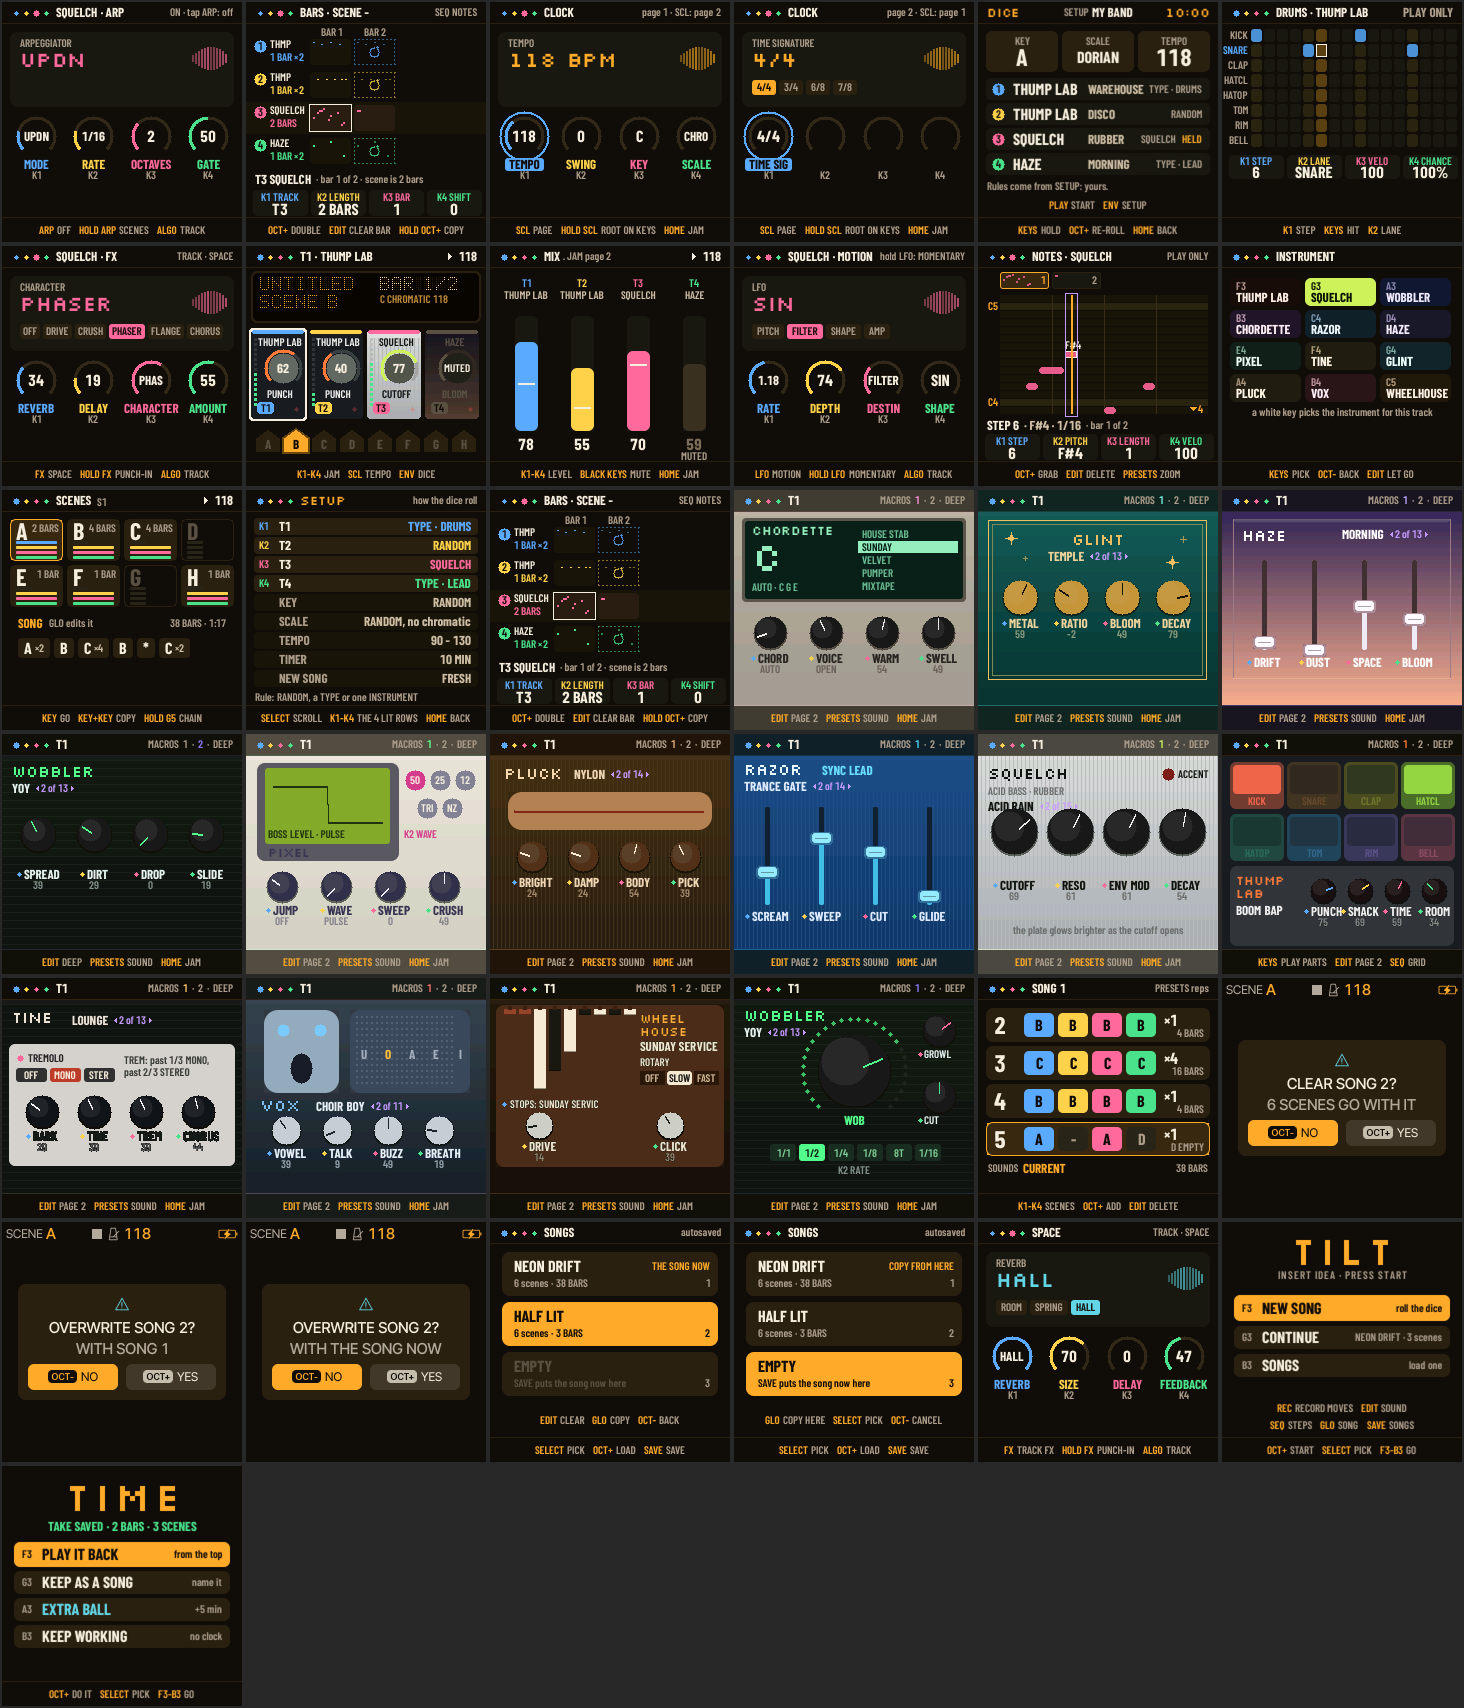
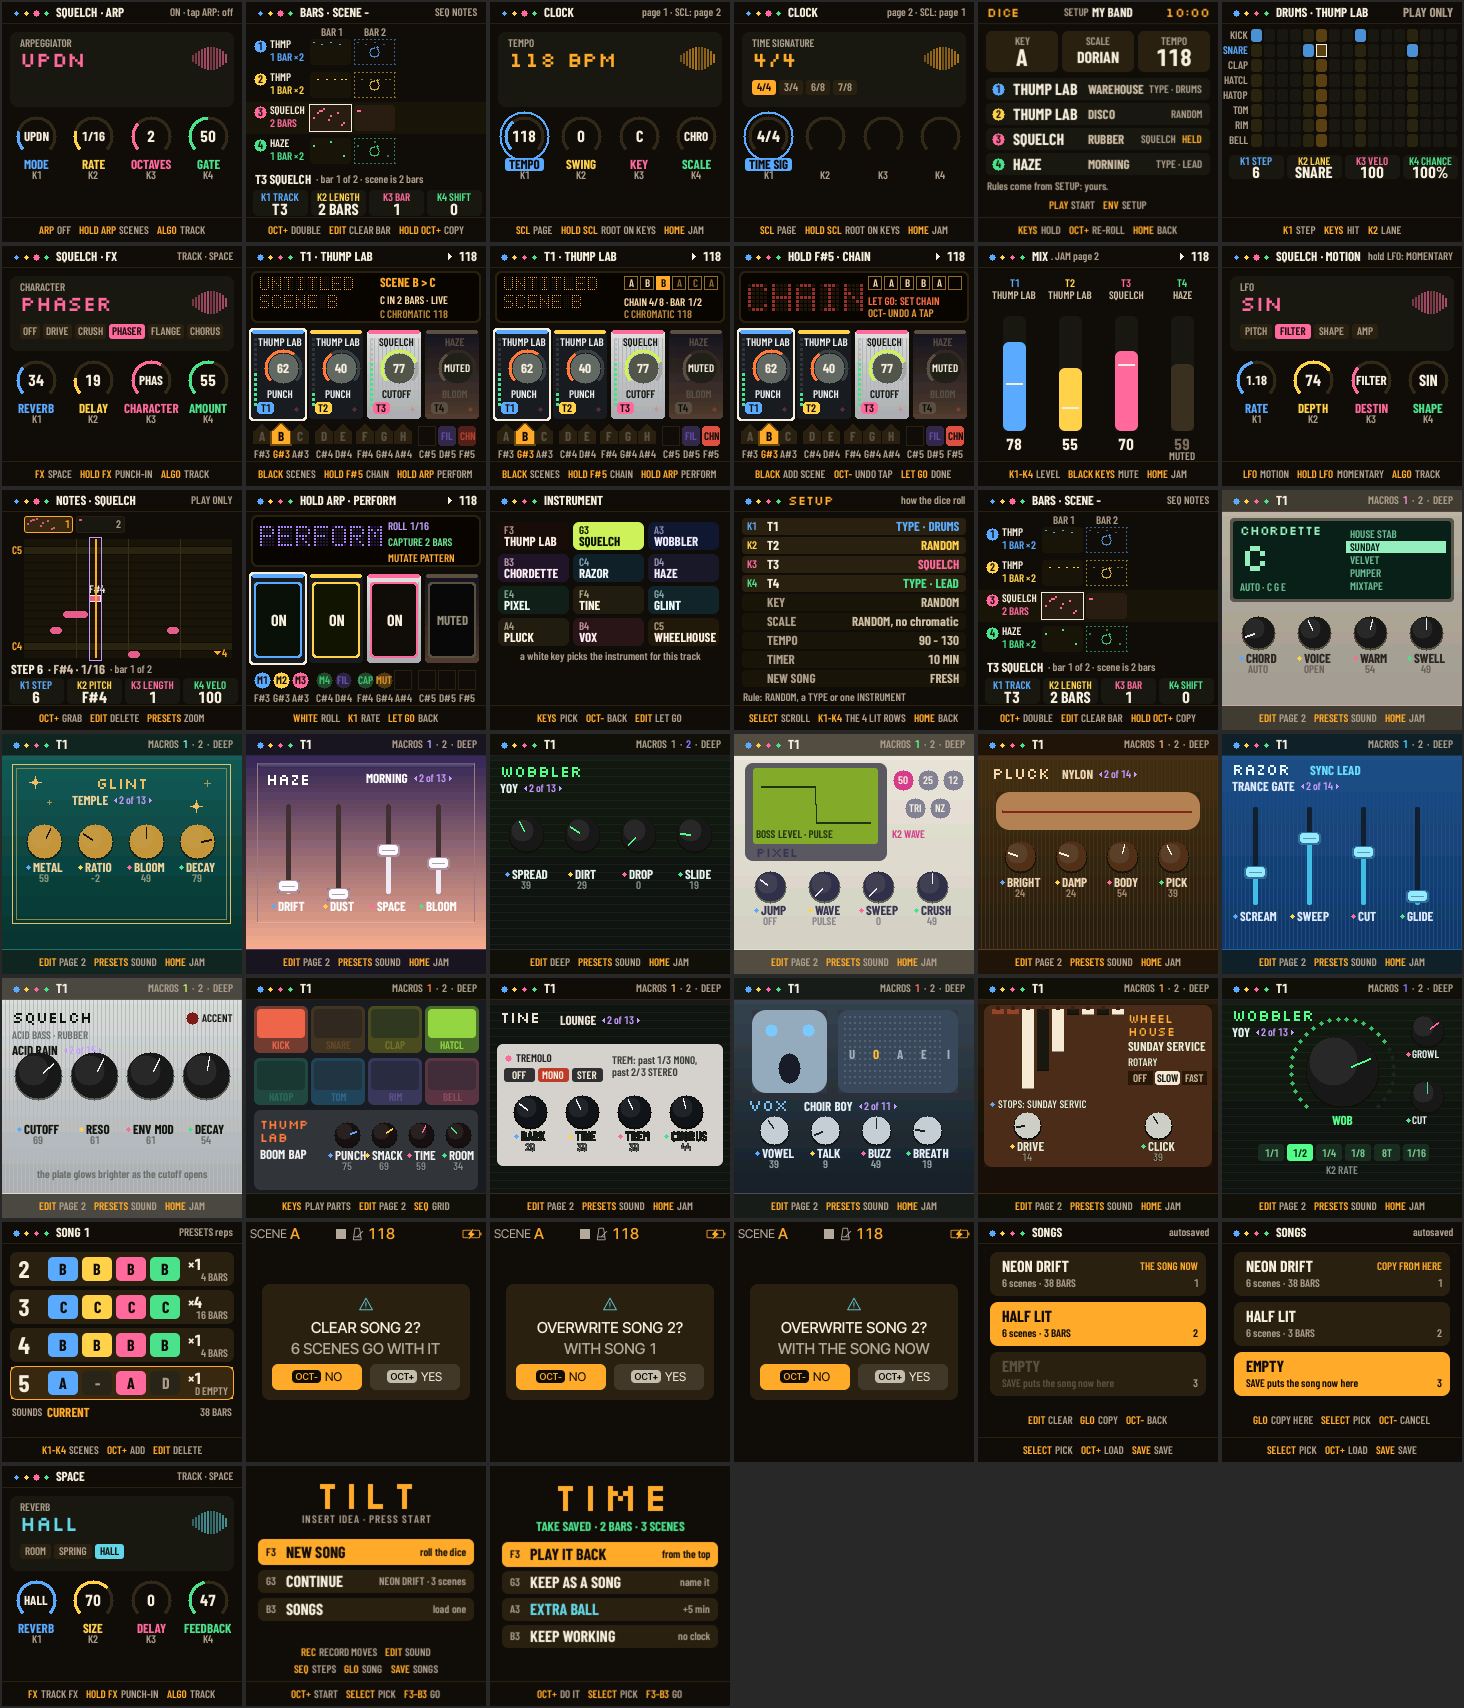
TFM-UI round 5: the report and the re-rendered screens

diff --git a/NIGHT-REPORT-UI.md b/NIGHT-REPORT-UI.md
@@ -197,3 +197,20 @@ Branch `tfm-ui`; one commit and push per item: `f5f2be3` (1), `cd68df8` (2), `69
 **Suite:** `tests=0`, no FAIL lines, `target_budget` 0 (see below). The 2x drawings are the spec; the screens are re-rendered into `tfm-spec/built/` (and the Windows folder), lint 0 findings in 16 palettes.
 
 **Not done / limits:** nothing on an FM-1; item 7a's by-ear pass (the printed list sound by sound); K2's "8 bars" (64 steps); the editor's panel was checked by protocol tests, not clicked in a browser.
+
+## Round 5 (live arranging from JAM: JamFinal*, PerformFinal)
+
+Branch `tfm-ui`: `0ae7042` (items 1-3, one commit: they share one file and one screen), `661ac80` (item 4). Package `tilt-fm-ui-r5-<sha>.fwsc`. Nothing was run on an FM-1.
+
+**Flash and RAM:** round 4 build 497,772 B / RAM 62,040 B / pool 365,752 B. Items 1-3: 502,780 B (+5,008) / 62,344 (+304). Item 4: 502,608 B (+4,836 from round 4) / 63,128 (+1,088). RAM headroom 4,456 B (the build asks 4,096; the first cut of item 4's note log took 1,536 B and failed that check, so it is 24 notes a track at 8 bytes now). Pool unchanged.
+
+1. **The black keys launch scenes.** F#3..A#4 = scenes A-H (the white keys play the selected track as before; the black keys play nothing on JAM: `kb_map` is silent for them there). A tap queues the scene (its lamp and key light blink); it starts when the scene playing has finished its loop (seq.c `scene_tick` now waits for the longest track's loop end, its full length, and no longer the next bar: for scenes of one bar nothing changed); the same key again cancels, several taps: the last wins, the playing scene's key keeps it looping. Sounds follow the scene (the staged scene carries its engines, presets, values and FM6 patches). OCT+ and a scene key copies the playing scene there and queues it (while playing it goes to a RAM image, flushed when stopped, as every edit of a scene); OCT- and a scene key clears it (CLEAR C? with Cancel the default, undoable by the scene undo). D#5 held = FILL; C#5 dark. The bottom row is the lamps grouped 3 2 3 2 1 with each key's name under it and the FILL / CHN pills (the playing scene lit amber with a glow, the queued outlined and blinking, used dim, empty dark); the FM-1's key lights mirror them (playing solid, queued breathing, used at the mid level, F#5 / D#5 dim). The display: the TIMER, "SCENE B > C", "C IN 2 BARS . LIVE" (the bars to the loop's end), the key. Footer BLACK SCENES, HOLD F#5 CHAIN, HOLD ARP PERFORM. **A change you will notice:** JAM takes OCT+ and OCT- for these jobs, so they no longer shift the octave on JAM (they do everywhere else).
+2. **CHAIN on F#5.** Held, the scene keys tapped in order are sections (the same scene twice in a row one more repeat); the display spells the taps out (boxes, "LET GO: SET CHAIN", "OCT- UNDO A TAP"); OCT- takes the last tap; let go, the chain replaces the song's chain; OCT- alone afterwards brings the old one back (one level; again, the new one). Let go with no taps: back to the chain if there is one (it stops the live music and plays it). PLAY plays the chain after a CHAIN, the selected scene once a scene key made it live. While it plays the display shows the chain as boxes (the playing one lit, the played ones outlined, a window of six), "CHAIN 4/8 . BAR 3/4", and the lamps follow its sections; a scene key tapped meanwhile drops to live (the chain stops, the music goes on, that scene queued for the loop's end; the working pattern is the scene the chain started from). Blank scenes in a chain play silence (round 4). The SCENES quick chain (G5) stays.
+3. **The jam is remembered.** Every scene launch, live or chain, is logged with the loops it played (the clock track's wraps), 64 entries, the oldest dropped. KEEP AS A SONG (TIME) turns the log into the song's chain (consecutive launches of one scene are one section, repeats = loops played, at least 1, at most 16; sections cap at 16, the oldest dropped). **Not done:** the SONGS entry "SAVE JAM AS SONG" has no button yet (`jl_keep()` is there; SONGS' own SAVE still saves the song as it is): say which button you want for it.
+4. **Hold ARP = PERFORM** (tap stays the arpeggiator page; the old SCENES layer is gone, its screen is no longer reachable). White keys ROLL: the held note repeats at K1's rate (1/8, 1/8T, 1/16, 1/16T, 1/32) from the audio side (seq.c `roll_tick`), recorded as a ratchet of the step when REC is on and playing (the hits the step holds at that rate; a drum track records its part the same way). F#3 G#3 A#3 C#4 mute T1-T4 at once (lit = playing; the cabinets turn into ON / MUTED panels). D#4 held = FILL. F#4 = CAPTURE: the last 1, 2 or 4 bars (K2) you played on the selected track, REC off too, from a rolling log of 24 notes a track (live keys and rolls), written into the pattern aligned to where the loop is now (stopped: from step 1), the bars it replaces cleared first, one undo (SAVE held). G#4 = MUTATE: the pattern re-rolled in key (TILT's RANDOM, as STUCK) and / or the sound (K3: PATTERN, SOUND, BOTH), one undo. The display is violet: PERFORM, ROLL rate, CAPTURE length, MUTATE mode; the pills M1-M4, FIL, CAP, MUT sit on their keys; footer WHITE ROLL, K1 RATE, LET GO BACK. The spec's button map is updated (tfm-spec/TFM-UI-SPEC.md, Round 5 section). Limits: the roll's first hit is the key's own, the repeats follow the audio clock whether or not the transport runs.
+
+**Tests** (tests/ui_test_r5.h): the launch waits for the loop end (a 2-bar scene: still A after one bar, B after two), cancel, last wins, tap playing, FILL, C#5, copy and clear (asks first), the key lights, black keys silent; CHAIN taps, repeat, OCT- tap, replace, undo, PLAY plays it, drop to live, blank in chain, back to the chain; the log to a chain (merging, capped, KEEP); roll rates in the right ratios and a recorded ratchet, mutes and their lights, FILL, CAPTURE of 1 / 2 / 4 bars with REC off and its undo, MUTATE in key and its undo, leaving PERFORM. Old scene-layer tests run in CLASSIC and are unchanged. Renders: ui_jam (live, B > C), ui_jam_chain, ui_jam_write, ui_perform.
+
+**Suite:** see the numbers below. **Not done / limits:** SAVE JAM AS SONG's button; nothing on an FM-1; the roll and capture are checked on the host's audio clock, not by ear.
+
+**Suite (round 5):** tests=0, no FAIL lines, target_budget 0 (the first run failed the audio ISR cost, +18 % over; fixed in 727aab8: a volatile read per key in the key loop was the cost, now +4 %). Final build: 502,680 B, RAM 63,128 B (headroom 4,456 B), pool 365,752 B.
